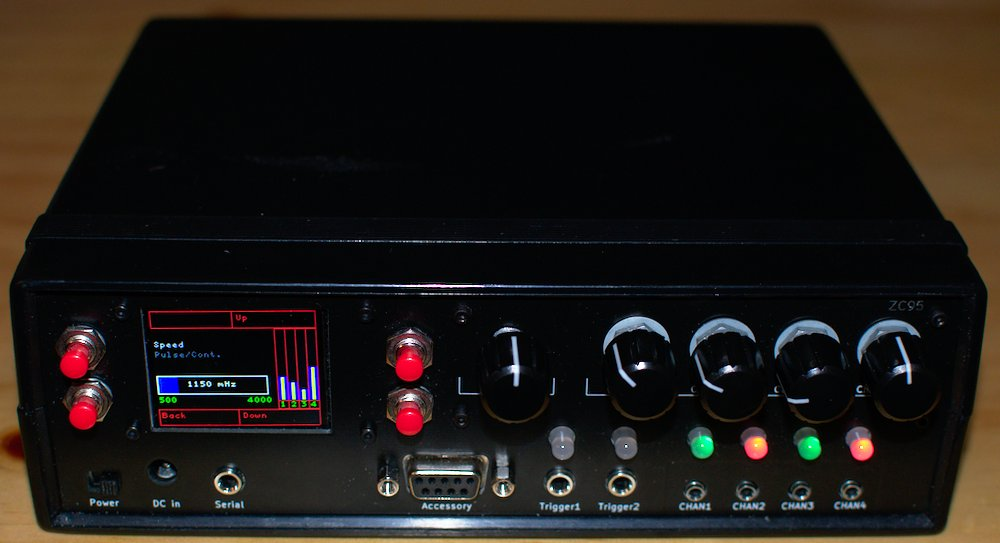
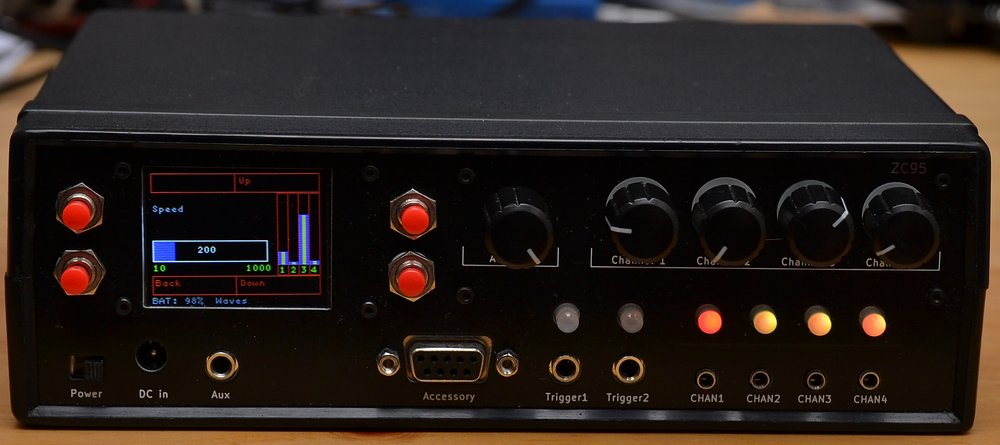
update photo in readme, tweak comments and add a todo to readme

diff --git a/source/zc624/CPulseQueue.cpp b/source/zc624/CPulseQueue.cpp
@@ -2,9 +2,9 @@
 
 /*
  * Queue up pulses to be generated. This is to ensure that only one chanel is ever 
- * generating a pulse at the exact same moment.
- * This for (largely theoretical) safety reasons, rather than power use, etc.
- * For the time being, this rules out any kind of tri-phase effects.
+ * generating a pulse at the exact same moment when channel_isolation is enabled.
+ * This is for (largely theoretical) safety reasons, rather than power use, etc.
+ * Channel isolation needs to be disabled for any tri-phase effects.
  */
 
 CPulseQueue::CPulseQueue(CI2cSlave *i2c_slave)

diff --git a/README.md b/README.md
@@ -53,6 +53,7 @@ May do some of this, all of this, or none of this!
    - LUA scripting. Proof of concept completed. The pico's definitely powerful enough. Not sure if there's enough free RAM for scripts of a useful length
    - Switch to Pico W, and allow some kind of remote access. Maybe just to upload LUA scripts
    - Combine main, output and audio boards into one, and probably switch to almost all SMD so it can be assembled by JLCPCB
+   - Probably remove "Aux" socket and swap for seperate "Serial" and "Audio" sockets
    - Use a lithium battery pack instead of a 12v SLA
    - Use a USB charger
    - Maybe a smaller, 3D printed case. Probably keeping the same width/weight though
